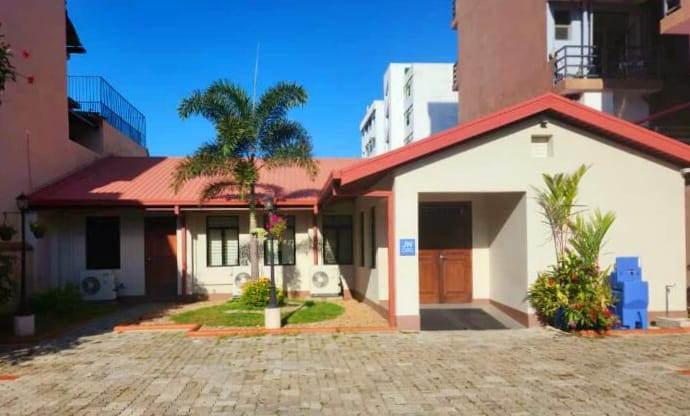
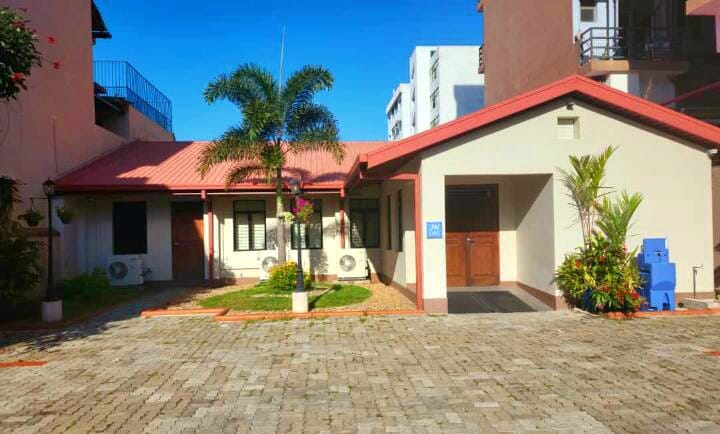
bg and clock fade added

diff --git a/assets/style.css b/assets/style.css
@@ -1,4 +1,5 @@
-body, html{
+body,
+html {
     margin: 0;
     height: 100%;
 }
@@ -13,7 +14,7 @@ body, html{
     src: url("/assets/fonts/Roboto-Bold.ttf");
 }
 
-.container{
+.container {
     height: 100%;
     background: #000000cc;
     display: flex;
@@ -21,72 +22,90 @@ body, html{
     justify-content: end;
 }
 
-#jClock{
+#jClock {
     font-family: 'rb-medium', sans-serif;
     line-height: 1;
     color: #fff;
     font-size: 100px;
+    position: relative;
+    z-index: 1;
 }
 
-#jDate{
+#jDate {
     font-family: 'rb-light', sans-serif;
     text-align: right;
     color: #fff;
     font-size: 47px;
     margin-bottom: 10px;
+    position: relative;
+    z-index: 1;
 }
 
-.d-show{
+.d-show {
     padding: 70px 90px;
     position: relative;
     z-index: 1;
 }
 
-.im-bg{
+.d-show::after {
+    content: '';
+    position: absolute;
+    width: 100%;
+    height: 100%;
+    background: #000000a6;
+    top: 0;
+    left: 0;
+    z-index: 0;
+    filter: blur(50px);
+}
+
+.im-bg {
     position: fixed;
     width: 100%;
     height: 100%;
 }
 
-.im-bg img{
+.im-bg img {
     width: 100%;
     height: 100%;
     object-fit: cover;
 }
 
-.wlecome-text{
+.wlecome-text {
     position: absolute;
     left: 0;
     padding: 58px 0;
 }
 
-.wlecome-text img{
+.wlecome-text img {
     width: 60%;
 }
 
 
 @media only screen and (max-width: 1238px) {
-    .d-show{
+    .d-show {
         zoom: 0.8;
         padding: 82px 35px;
     }
-  }
+}
 
 
 @media only screen and (max-width: 890px) {
-    .d-show{
+    .d-show {
         zoom: 0.5;
         padding: 90px 35px;
     }
-    .wlecome-text{
+
+    .wlecome-text {
         padding: 36px 0;
     }
 }
 
-@media only screen and (max-width: 570px){
-    .d-show{
+@media only screen and (max-width: 570px) {
+    .d-show {
         zoom: 0.4;
     }
+
     .wlecome-text {
         padding: 26px 0;
     }
